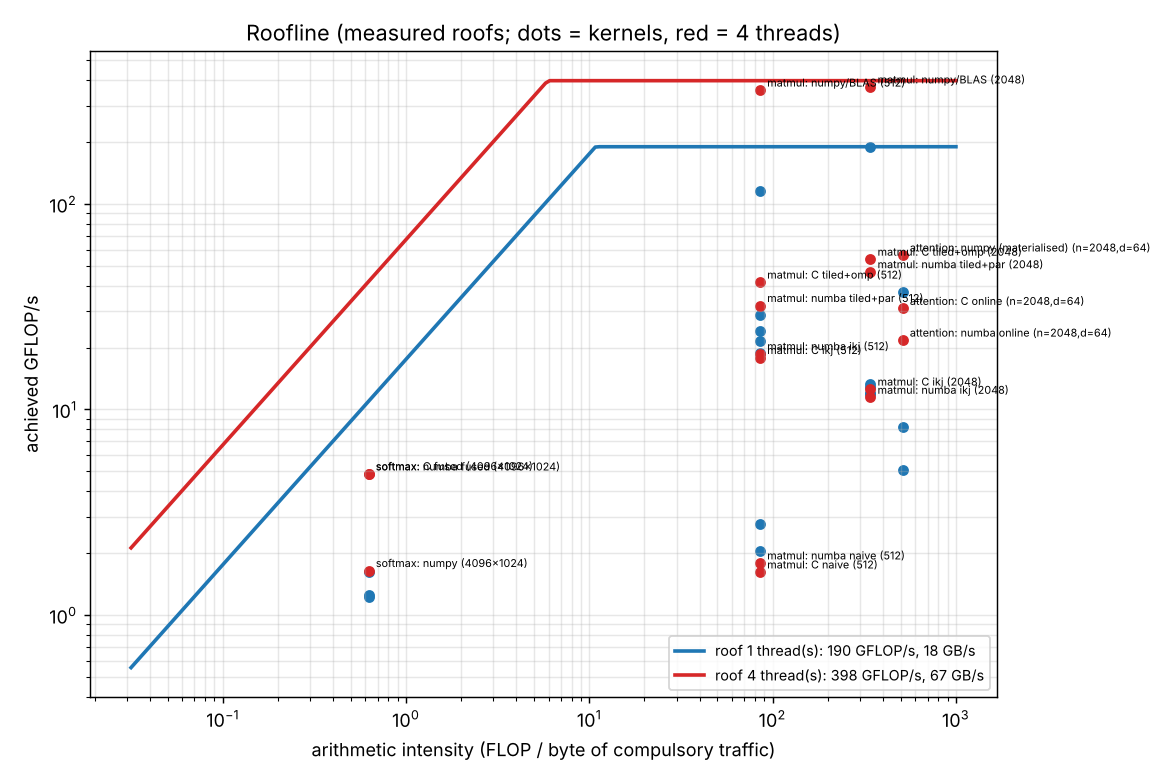
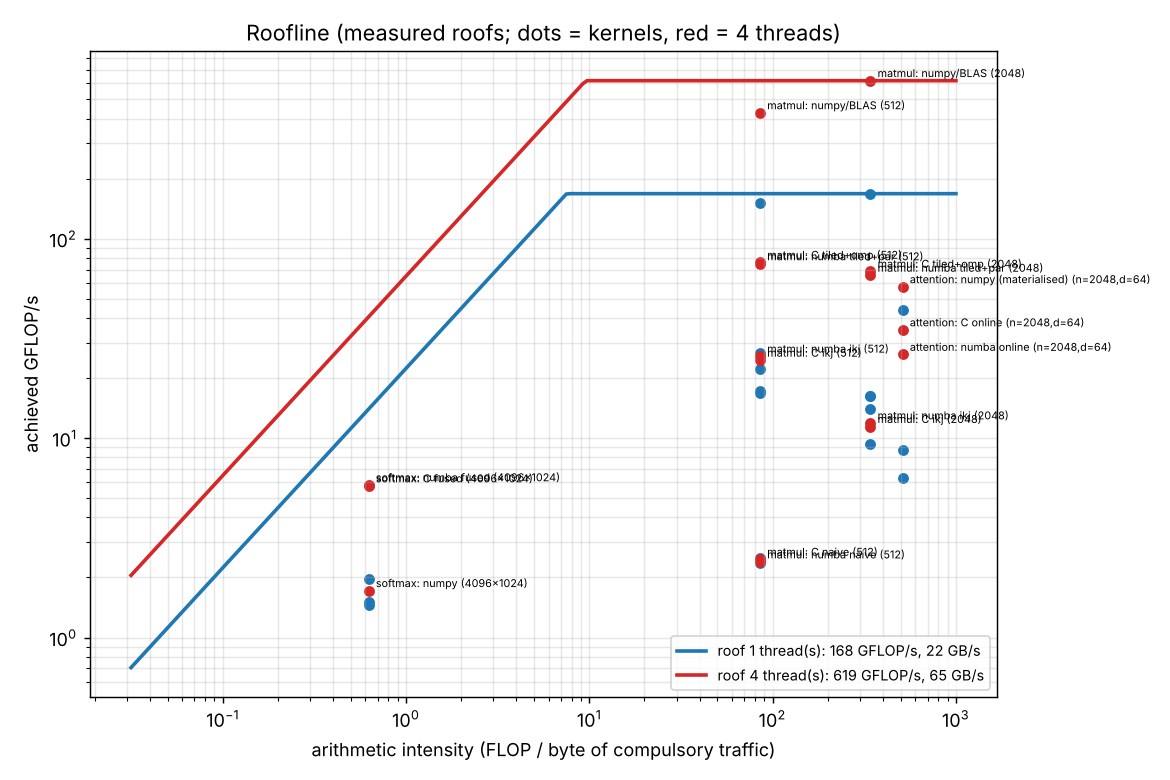
docs(perf-kernels-cpu): regenerate results and analysis after roof fixes
Claude-Session: https://claude.ai/code/session_01LdbM5tujzwqV6M1G26fLgj

diff --git a/README.md b/README.md
@@ -11,7 +11,7 @@ pip install -r requirements.txt      # and a C compiler with OpenMP (gcc)
 
 ## Usage
 ```bash
-python -m pytest -q        # 33 tests, ~8 s (builds the C library on first use)
+python -m pytest -q        # 34 tests, ~10 s (builds the C library on first use)
 python bench.py            # ~75 s → results/bench.md, results/bench.json, results/roofline.png
 ```
 
@@ -30,7 +30,7 @@ Correctness tests run every implementation against NumPy:
 - attention with peaked scores, which exercises the online-softmax rescaling.
 
 ## Results (4 vCPU Xeon @ 2.1 GHz, AVX-512, float32)
-**Roofs (measured):** at 1 thread, 190 GFLOP/s (BLAS sgemm) and 18 GB/s (stream add); at 4 threads, 398 GFLOP/s and 67 GB/s.
+**Roofs (measured):** at 1 thread, 168 GFLOP/s (BLAS sgemm) and 22 GB/s (stream add, 3 × 128 MB arrays, 16 B/element counting the write-allocate); at 4 threads, 619 GFLOP/s and 65 GB/s.
 
 ![roofline](results/roofline.png)
 
@@ -38,33 +38,33 @@ Matmul (GFLOP/s, n = 512 / 2048):
 
 | impl | 1 thread, 512 | 4 threads, 512 | 1 thread, 2048 | 4 threads, 2048 |
 |---|---|---|---|---|
-| numpy / BLAS | **116** | **358** | **190** | **371** |
-| Numba naive ijk | 2.1 | 1.8 | - | - |
-| C naive ijk | 2.8 | 1.6 | - | - |
-| Numba ikj | 28.7 | 18.7 | 11.9 | 11.4 |
-| C ikj | 24.1 | 17.9 | 12.8 | 12.6 |
-| Numba tiled + prange | 21.5 | 32.0 | 12.1 | 46.7 |
-| C tiled + OpenMP | 18.8 | 41.6 | 13.3 | 53.8 |
+| numpy / BLAS | **151** | **427** | **168** | **619** |
+| Numba naive ijk | 2.4 | 2.4 | - | - |
+| C naive ijk | 2.5 | 2.5 | - | - |
+| Numba ikj | 26.8 | 25.7 | 14.0 | 11.9 |
+| C ikj | 22.3 | 24.6 | 9.3 | 11.4 |
+| Numba tiled + prange | 16.7 | 74.7 | 16.3 | 65.5 |
+| C tiled + OpenMP | 17.3 | 76.0 | 16.2 | 68.6 |
 
-Row softmax 4096×1024 (ms): NumPy 13.0 (1 thread) / 12.8 (4 threads); Numba fused 16.8 / **4.3**; C fused 17.1 / **4.3**.
-Attention n = m = 2048, d = 64 (ms): NumPy materialised 28.8 / **19.1**; C online 131 / 34.6; Numba online 211 / 49.4.
+Row softmax 4096×1024 (ms): NumPy 10.7 (1 thread) / 12.2 (4 threads); Numba fused 13.9 / **3.6**; C fused 14.4 / **3.6**.
+Attention n = m = 2048, d = 64 (ms): NumPy materialised 24.4 / **18.7**; C online 123 / 30.8; Numba online 170 / 40.9.
 Full table: [results/bench.md](results/bench.md).
 
 ## Analysis
-- **Loop order is the first 10×.** Naive ijk walks B down a column, so every element costs a new cache line. The reduction into one scalar also can't be vectorised without `-ffast-math`, because float addition order matters. ikj makes the inner loop `c[j] += a * b[j]` over contiguous rows, which both compilers vectorise with AVX-512: 2-3 → 24-29 GFLOP/s at n=512.
-- **Cache size decides when tiling matters.** At n=512 (1 MB per matrix) ikj already runs from L2/L3. At n=2048 (16 MB per matrix) ikj drops to 12 GFLOP/s, streaming B from memory once per row of A. Tiling (64×64 blocks, 48 KB working set) keeps blocks in cache. Its real payoff here is that it creates independent row bands to parallelise: 4 threads give 54 GFLOP/s, a 4.0× speed-up over 1-thread tiled (13.3), i.e. linear.
-- **BLAS is still 7× faster** (371 vs 54 GFLOP/s at 4 threads; 190 vs 13.3 at 1 thread, 14× there). Our best kernel sits at ~13 % of the compute roof. BLAS additionally:
+- **Loop order is the first 10×.** Naive ijk walks B down a column, so every element costs a new cache line. The reduction into one scalar also can't be vectorised without `-ffast-math`, because float addition order matters. ikj makes the inner loop `c[j] += a * b[j]` over contiguous rows, which both compilers vectorise with AVX-512: 2.5 → 22-27 GFLOP/s at n=512.
+- **Cache size decides when tiling matters.** At n=512 (1 MB per matrix) ikj runs from cache. At n=2048 (16 MB per matrix) ikj drops to 9-14 GFLOP/s, streaming B from memory once per row of A. Tiling (64×64 blocks, 48 KB working set) keeps blocks in cache, so it is the fastest single-thread version at 2048 (16 GFLOP/s). Its bigger payoff is that it creates independent row bands to parallelise: 4 threads give 66-69 GFLOP/s, a 4.0-4.2× speed-up over 1-thread tiled, i.e. linear.
+- **BLAS is still about 9× faster** (619 vs 69 GFLOP/s at 4 threads; 168 vs 16 at 1 thread, 10×). Our best kernel reaches ~11 % of the compute roof. BLAS additionally:
   - packs A and B panels into contiguous buffers;
   - keeps a register-blocked micro-kernel (e.g. 16×6 outputs in registers, FMA every cycle, so each loaded value is reused about 6-16×);
   - tunes block sizes to L1/L2/L3.
   Our inner loop does one load + one FMA + one store per element, which makes it load/store-bound, not FMA-bound. That gap is the lesson: arithmetic intensity at the *register* level, not just the cache level, is what reaches the roof.
-- **Softmax.** On the roofline, softmax's compulsory traffic (8 B per element) would allow 0.62 FLOP/B × 67 GB/s ≈ 40 GFLOP/s. All versions are far below that because `exp` costs ~10-20 FLOPs, not the 1 counted, so softmax is compute-bound on `exp` here. Fusing into one parallel kernel wins 3× at 4 threads (4.3 ms vs 12.8 ms). NumPy does not scale with threads at all, because its ufuncs are single-threaded and it makes 4 full passes with temporaries.
-- **Online attention vs BLAS.** The online-softmax kernels (FlashAttention's recurrence) never store the 2048×2048 score matrix: O(d) extra memory per query instead of O(n·m). But their dot products are scalar loops, while NumPy spends its time in two BLAS GEMMs. With 4 threads, C online is 1.8× slower than NumPy, and the 16 MB score matrix still fits in this machine's memory hierarchy. The online version wins when n·m no longer fits (long sequences), or when its inner products are blocked into GEMM-like tiles, which is what FlashAttention does on GPUs.
-- **More threads can hurt.** 4 threads made naive and ikj *slower* at n=512 (no parallel loop, only BLAS/OMP spin-up and noisy shared vCPUs).
+- **Softmax.** On the roofline, softmax's compulsory traffic (8 B per element) would allow 0.62 FLOP/B × 65 GB/s ≈ 40 GFLOP/s. All versions are far below that because `exp` costs ~10-20 FLOPs, not the 1 counted, so softmax is compute-bound on `exp` here. Fusing into one parallel kernel wins 3.4× at 4 threads (3.6 ms vs 12.2 ms). NumPy does not scale with threads at all: its ufuncs are single-threaded, and it makes about 5 full passes with temporaries (max, subtract, exp, sum, divide).
+- **Online attention vs BLAS.** The online-softmax kernels (FlashAttention's recurrence) never store the 2048×2048 score matrix: O(d) extra memory per query instead of O(n·m). But their dot products are scalar loops, while NumPy spends its time in two BLAS GEMMs. With 4 threads, C online is 1.6× slower than NumPy, and the 16 MB score matrix still fits in this machine's memory hierarchy. The online version wins when n·m no longer fits (long sequences), or when its inner products are blocked into GEMM-like tiles, which is what FlashAttention does on GPUs.
+- **Serial kernels don't speed up with 4 threads** (naive, ikj: same or noisier). They have no parallel loop. In the 4-thread process, idle OpenBLAS/OpenMP worker threads may still spin on the shared vCPUs.
 
 **Debugging note.** The first Numba tiled kernel ran at 2.9 GFLOP/s, 4× slower than its own untiled ikj. Two hypotheses were tested and rejected: 2-D indexing, and `parallel=True` outlining (serial was equally slow). The cause: the inner loop started at a runtime offset `j0`, so Numba could not prove `j ≥ 0` and kept its negative-index wraparound check, which blocks vectorisation. Slicing tile-local views and looping from 0 gave 17 GFLOP/s, a 6× speed-up.
 
-Variance: ±10-20 % between runs on this shared VM (e.g. 1-thread BLAS measured 127-190 GFLOP/s), so the roof uses the best BLAS run per thread count.
+Variance: ±10-30 % between runs and across container restarts on this shared VM (an earlier run measured 4-thread BLAS at 370-400 GFLOP/s, this one at 619). The roof uses the best BLAS measurement in the same run.
 
 ## Not done (time box)
 Register-blocked micro-kernel / panel packing, explicit SIMD intrinsics, auto-tuned tile sizes, blocked (GEMM-tiled) online attention, perf-counter (cache miss) measurements.

diff --git a/results/bench.md b/results/bench.md
@@ -1,42 +1,42 @@
 | kernel | impl | size | threads | ms | GFLOP/s | AI (FLOP/B) |
 |---|---|---|---|---|---|---|
-| roof | stream add (bandwidth) | 16777216 | 1 | 11.48 | 1.5 | 0.08 |
-| roof | stream add (bandwidth) | 16777216 | 4 | 3.00 | 5.6 | 0.08 |
-| roof | BLAS sgemm (peak) | 2048 | 1 | 132.89 | 129.3 | 341.33 |
-| roof | BLAS sgemm (peak) | 2048 | 4 | 43.18 | 397.9 | 341.33 |
-| attention | C online | n=2048,d=64 | 1 | 131.15 | 8.2 | 512.00 |
-| attention | C online | n=2048,d=64 | 4 | 34.64 | 31.0 | 512.00 |
-| attention | numba online | n=2048,d=64 | 1 | 211.34 | 5.1 | 512.00 |
-| attention | numba online | n=2048,d=64 | 4 | 49.42 | 21.7 | 512.00 |
-| attention | numpy (materialised) | n=2048,d=64 | 1 | 28.77 | 37.3 | 512.00 |
-| attention | numpy (materialised) | n=2048,d=64 | 4 | 19.05 | 56.4 | 512.00 |
-| matmul | C ikj | 2048 | 1 | 1337.78 | 12.8 | 341.33 |
-| matmul | C ikj | 2048 | 4 | 1368.60 | 12.6 | 341.33 |
-| matmul | C tiled+omp | 2048 | 1 | 1295.75 | 13.3 | 341.33 |
-| matmul | C tiled+omp | 2048 | 4 | 319.40 | 53.8 | 341.33 |
-| matmul | numba ikj | 2048 | 1 | 1438.83 | 11.9 | 341.33 |
-| matmul | numba ikj | 2048 | 4 | 1500.51 | 11.4 | 341.33 |
-| matmul | numba tiled+par | 2048 | 1 | 1421.61 | 12.1 | 341.33 |
-| matmul | numba tiled+par | 2048 | 4 | 367.54 | 46.7 | 341.33 |
-| matmul | numpy/BLAS | 2048 | 1 | 90.49 | 189.9 | 341.33 |
-| matmul | numpy/BLAS | 2048 | 4 | 46.36 | 370.5 | 341.33 |
-| matmul | C ikj | 512 | 1 | 11.12 | 24.1 | 85.33 |
-| matmul | C ikj | 512 | 4 | 15.02 | 17.9 | 85.33 |
-| matmul | C naive | 512 | 1 | 97.20 | 2.8 | 85.33 |
-| matmul | C naive | 512 | 4 | 165.95 | 1.6 | 85.33 |
-| matmul | C tiled+omp | 512 | 1 | 14.25 | 18.8 | 85.33 |
-| matmul | C tiled+omp | 512 | 4 | 6.45 | 41.6 | 85.33 |
-| matmul | numba ikj | 512 | 1 | 9.34 | 28.7 | 85.33 |
-| matmul | numba ikj | 512 | 4 | 14.38 | 18.7 | 85.33 |
-| matmul | numba naive | 512 | 1 | 130.65 | 2.1 | 85.33 |
-| matmul | numba naive | 512 | 4 | 149.96 | 1.8 | 85.33 |
-| matmul | numba tiled+par | 512 | 1 | 12.50 | 21.5 | 85.33 |
-| matmul | numba tiled+par | 512 | 4 | 8.38 | 32.0 | 85.33 |
-| matmul | numpy/BLAS | 512 | 1 | 2.31 | 116.0 | 85.33 |
-| matmul | numpy/BLAS | 512 | 4 | 0.75 | 357.7 | 85.33 |
-| softmax | C fused | 4096x1024 | 1 | 17.08 | 1.2 | 0.62 |
-| softmax | C fused | 4096x1024 | 4 | 4.31 | 4.9 | 0.62 |
-| softmax | numba fused | 4096x1024 | 1 | 16.77 | 1.3 | 0.62 |
-| softmax | numba fused | 4096x1024 | 4 | 4.32 | 4.8 | 0.62 |
-| softmax | numpy | 4096x1024 | 1 | 13.03 | 1.6 | 0.62 |
-| softmax | numpy | 4096x1024 | 4 | 12.75 | 1.6 | 0.62 |
+| roof | BLAS sgemm (peak) | 2048 | 1 | 104.03 | 165.2 | 341.33 |
+| roof | BLAS sgemm (peak) | 2048 | 4 | 28.06 | 612.2 | 341.33 |
+| roof | stream add (bandwidth) | 33554432 | 1 | 24.02 | 1.4 | 0.06 |
+| roof | stream add (bandwidth) | 33554432 | 4 | 8.28 | 4.1 | 0.06 |
+| attention | C online | n=2048,d=64 | 1 | 122.92 | 8.7 | 512.00 |
+| attention | C online | n=2048,d=64 | 4 | 30.80 | 34.9 | 512.00 |
+| attention | numba online | n=2048,d=64 | 1 | 170.37 | 6.3 | 512.00 |
+| attention | numba online | n=2048,d=64 | 4 | 40.88 | 26.3 | 512.00 |
+| attention | numpy (materialised) | n=2048,d=64 | 1 | 24.38 | 44.0 | 512.00 |
+| attention | numpy (materialised) | n=2048,d=64 | 4 | 18.71 | 57.4 | 512.00 |
+| matmul | C ikj | 2048 | 1 | 1844.31 | 9.3 | 341.33 |
+| matmul | C ikj | 2048 | 4 | 1504.29 | 11.4 | 341.33 |
+| matmul | C tiled+omp | 2048 | 1 | 1059.90 | 16.2 | 341.33 |
+| matmul | C tiled+omp | 2048 | 4 | 250.47 | 68.6 | 341.33 |
+| matmul | numba ikj | 2048 | 1 | 1227.81 | 14.0 | 341.33 |
+| matmul | numba ikj | 2048 | 4 | 1442.70 | 11.9 | 341.33 |
+| matmul | numba tiled+par | 2048 | 1 | 1052.22 | 16.3 | 341.33 |
+| matmul | numba tiled+par | 2048 | 4 | 262.41 | 65.5 | 341.33 |
+| matmul | numpy/BLAS | 2048 | 1 | 102.24 | 168.0 | 341.33 |
+| matmul | numpy/BLAS | 2048 | 4 | 27.74 | 619.3 | 341.33 |
+| matmul | C ikj | 512 | 1 | 12.06 | 22.3 | 85.33 |
+| matmul | C ikj | 512 | 4 | 10.93 | 24.6 | 85.33 |
+| matmul | C naive | 512 | 1 | 107.12 | 2.5 | 85.33 |
+| matmul | C naive | 512 | 4 | 108.84 | 2.5 | 85.33 |
+| matmul | C tiled+omp | 512 | 1 | 15.51 | 17.3 | 85.33 |
+| matmul | C tiled+omp | 512 | 4 | 3.53 | 76.0 | 85.33 |
+| matmul | numba ikj | 512 | 1 | 10.02 | 26.8 | 85.33 |
+| matmul | numba ikj | 512 | 4 | 10.43 | 25.7 | 85.33 |
+| matmul | numba naive | 512 | 1 | 113.86 | 2.4 | 85.33 |
+| matmul | numba naive | 512 | 4 | 112.26 | 2.4 | 85.33 |
+| matmul | numba tiled+par | 512 | 1 | 16.03 | 16.7 | 85.33 |
+| matmul | numba tiled+par | 512 | 4 | 3.59 | 74.7 | 85.33 |
+| matmul | numpy/BLAS | 512 | 1 | 1.78 | 151.2 | 85.33 |
+| matmul | numpy/BLAS | 512 | 4 | 0.63 | 427.4 | 85.33 |
+| softmax | C fused | 4096x1024 | 1 | 14.41 | 1.5 | 0.62 |
+| softmax | C fused | 4096x1024 | 4 | 3.64 | 5.8 | 0.62 |
+| softmax | numba fused | 4096x1024 | 1 | 13.93 | 1.5 | 0.62 |
+| softmax | numba fused | 4096x1024 | 4 | 3.60 | 5.8 | 0.62 |
+| softmax | numpy | 4096x1024 | 1 | 10.71 | 2.0 | 0.62 |
+| softmax | numpy | 4096x1024 | 4 | 12.21 | 1.7 | 0.62 |

diff --git a/SPEC.md b/SPEC.md
@@ -8,6 +8,6 @@ Build "Performance engineering for ML ops". Implement and optimise matrix multip
 - [x] benchmark table and analysis committed
 - [x] Tests pass with one command; CI workflow runs them
 - [x] README with setup, usage, architecture and results
-- [ ] Self code review done
+- [x] Self code review done
 - [ ] Draft PR open
 
